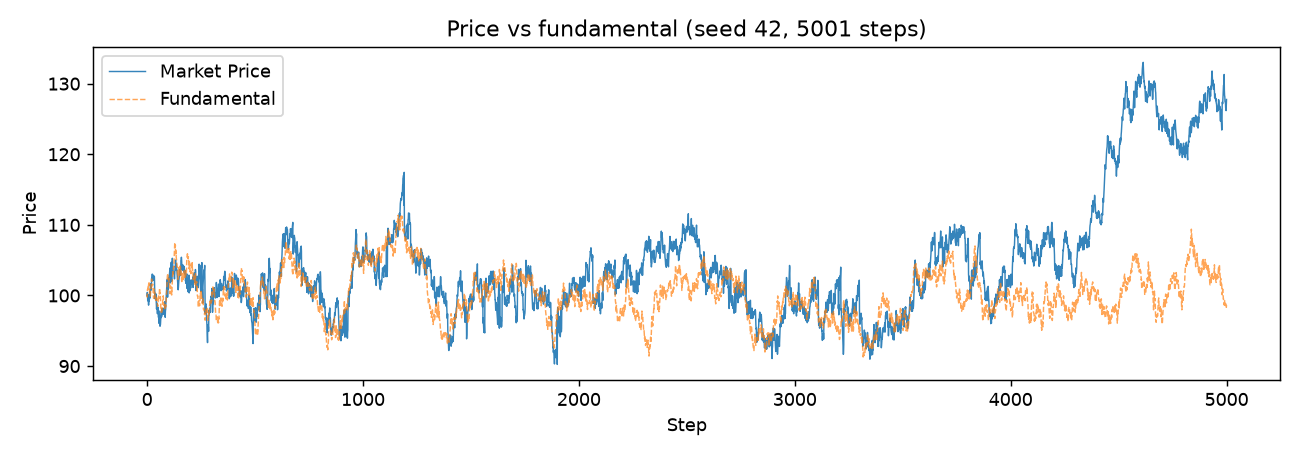
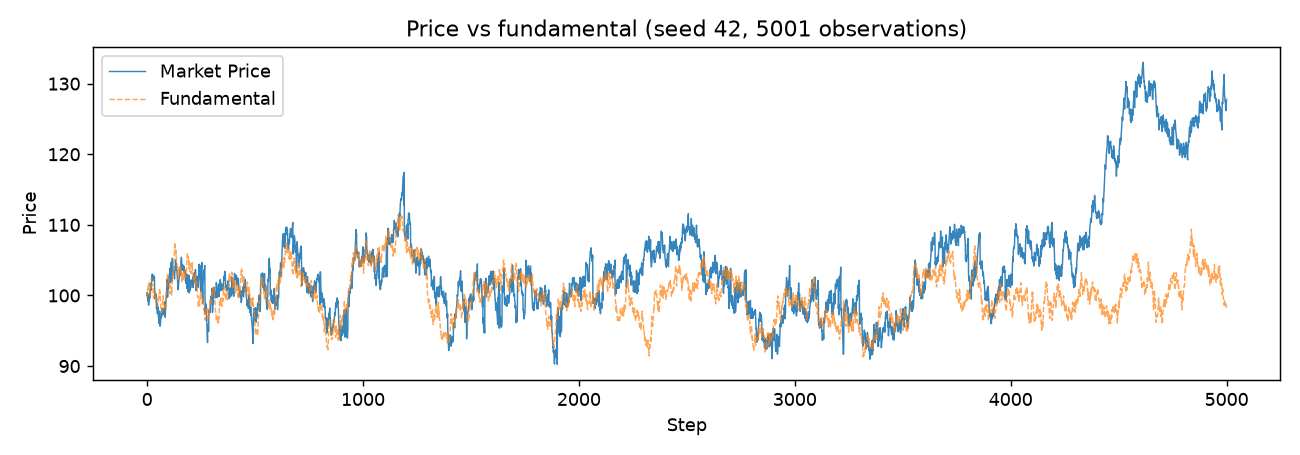
docs: correct README limitations, observation count and Hill range

Changed region(s): [[0.3077, 0.0308, 0.7385, 0.0923]]

diff --git a/scripts/make_figures.py b/scripts/make_figures.py
@@ -32,7 +32,7 @@ def main():
 
     fig, ax = plt.subplots(figsize=(10, 3.5))
     plot_price_and_fundamental(data, ax=ax)
-    ax.set_title(f"Price vs fundamental (seed {SEED}, {len(data)} steps)")
+    ax.set_title(f"Price vs fundamental (seed {SEED}, {len(data)} observations)")
     fig.tight_layout()
     fig.savefig(OUT / "price_vs_fundamental.png", dpi=130)
     plt.close(fig)

diff --git a/market_abm/analytics.py b/market_abm/analytics.py
@@ -42,7 +42,7 @@ def hill_estimator(returns: np.ndarray, k: int | None = None) -> float:
 
     Uses the largest k order statistics of |returns|.
     A lower tail index means heavier tails (power-law exponent).
-    Typical financial data: 2-5.
+    Typical financial data: 2-5 (the stylized-facts check accepts 2-6).
 
     Parameters
     ----------

diff --git a/README.md b/README.md
@@ -13,7 +13,7 @@ Real prices show fat-tailed returns and clustered volatility, and simple models 
 
 ## Results
 
-Default parameters, 5,000 steps, seed 42 (`python scripts/make_figures.py` prints these):
+Default parameters, 5,000 steps (5,001 observations, because step 0 is recorded), seed 42 (`python scripts/make_figures.py` prints these):
 
 | Statistic | Seed 42 | 30 seeds (1-30): mean, min to max |
 |---|---|---|
@@ -26,8 +26,8 @@ What this shows:
 
 - Fat tails: yes. Excess kurtosis is positive and large in all 30 seeds. The QQ plot below shows the excess comes from the tails; the centre of the distribution is flatter than normal.
 - Volatility clustering: present but short-lived. ACF of squared returns is positive in all 30 seeds, decaying from 0.17 at lag 1 to 0.01 at lag 5 for seed 42.
-- No return autocorrelation: not reproduced. Lag-1 ACF is negative and outside the 95% band (about 0.028) in all 30 seeds, which is typical of bid-ask bounce in a book model. The built-in `no_return_autocorrelation` check passes anyway because it tests the mean of |ACF| over lags 1-5 against 3 times the band, a loose criterion.
-- Hill index around 2 is at the low end of the 2 to 5 range the code treats as plausible, using a 5% tail on only 5,000 observations; treat it as indicative.
+- No return autocorrelation: not reproduced. Lag-1 ACF is negative and outside the 95% band (about 0.028) in all 30 seeds, which is likely a bounce between resting bid and ask prices (not tested; the book is two-sided at the end of only 23.5% of steps). The built-in `no_return_autocorrelation` check passes anyway because it tests the mean of |ACF| over lags 1-5 against 3 times the band, a loose criterion.
+- Hill index around 2 is at the low end of the 2 to 6 range the code treats as plausible, using a 5% tail on only 5,001 observations; treat it as indicative.
 - The price drifts well away from the fundamental in the last 1,500 steps of seed 42 (top figure); the fundamentalist agents correct it only slowly.
 
 ![Return distribution and QQ plot, seed 42](docs/img/return_distribution.png)
@@ -109,7 +109,9 @@ Defaults from `market_abm/config.py`:
 - One asset, one unit per order, top-of-book matching only. There are no partial fills or multi-level sweeps, and the `quantity` field of an order is ignored.
 - Agents can trade with their own resting orders (0.65% of trades on seed 42), which counts as volume without changing wealth.
 - Returns are lumpy: the histogram shows a flat-topped centre with a few large jumps, so kurtosis is driven by the tails rather than a peaked centre.
-- `run_experiment` drops zero returns before computing statistics; this changes the numbers very little (kurtosis 10.84 vs 10.90 on seed 42) but is not the same series as the one the dashboard plots.
+- `run_experiment` and the dashboard drop zero returns (0.4% of steps on seed 42, 20 of 5,001) before plotting and computing statistics; the README table and figures use all returns. The effect is small (kurtosis 10.84 vs 10.90 on seed 42).
+- The stylized-facts checks in `analytics.validate_stylized_facts` are loose: volatility clustering and no-autocorrelation both use the mean of |ACF| over lags 1 to 5 against the confidence band (3 times the band for the latter), so the no-autocorrelation check passes despite a clearly negative lag-1 ACF.
+- A voided trade also consumes the aggressor's order for that step; it does not retry against the next resting order (a modelling choice). The resting order is not restored either. A latent flaw: if the aggressor were the party that failed (aggressors check cash against the last price, not the trade price), the void would still not restore the resting order. No seed tried reached this case.
 - No calibration to real market data; the "plausible range" checks are rules of thumb, not tests against data.
 - Tests cover the order book, agents, fundamental process, analytics and a model smoke/invariant run; they do not test the stylized-fact outputs statistically.
 
